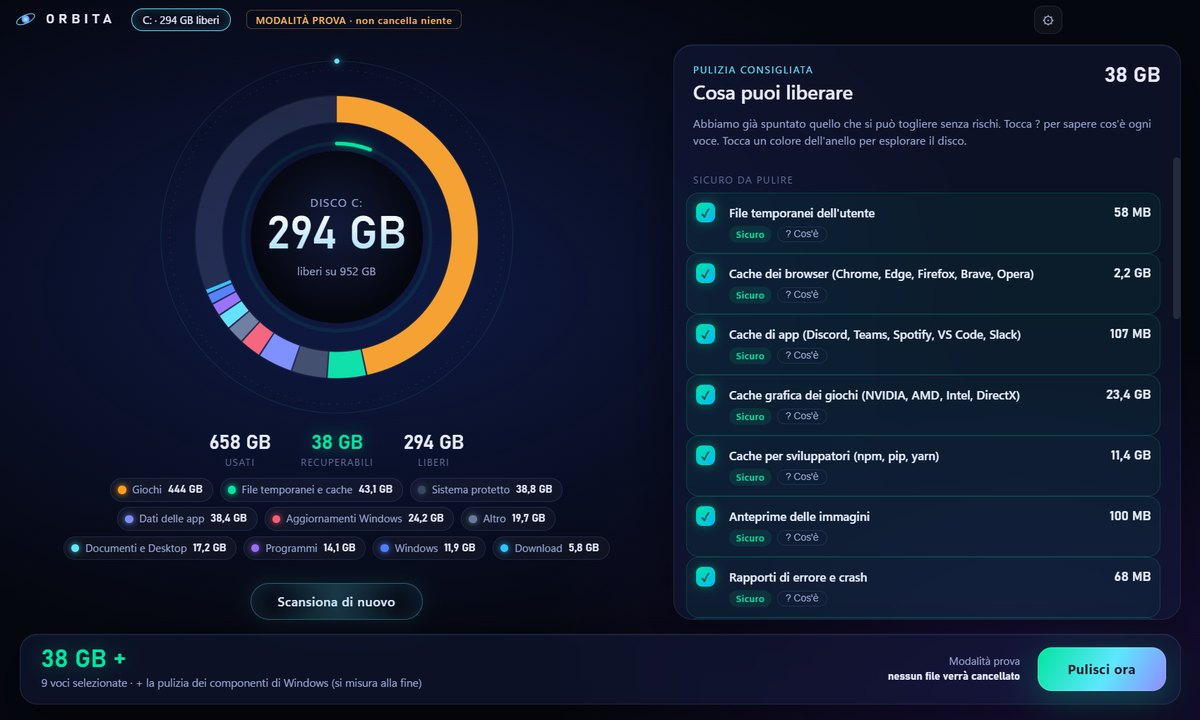
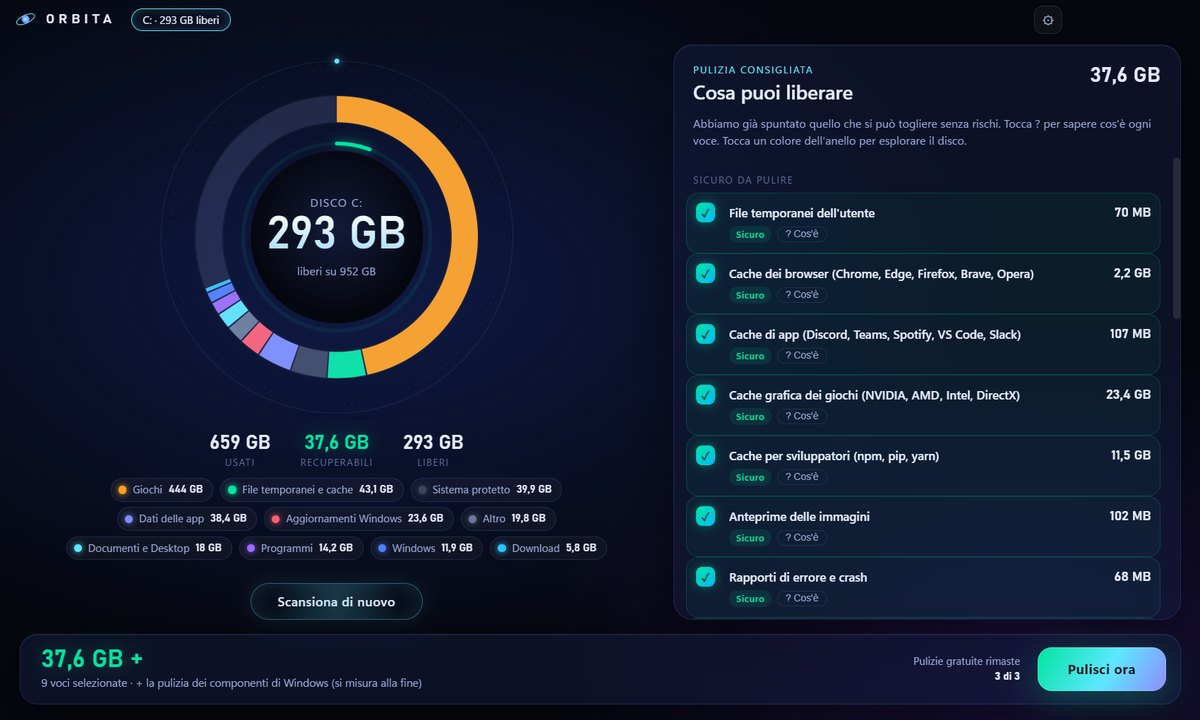
Orbita: pagina dedicata (EN/IT) e collegamento dal portfolio

diff --git a/orbita/index.html b/orbita/index.html
@@ -1,0 +1,200 @@
+<!DOCTYPE html>
+<!-- Orbita · Copyright (c) 2026 Andrea Vacchini. All rights reserved. -->
+<html lang="en">
+<head>
+<meta charset="utf-8">
+<meta name="viewport" content="width=device-width, initial-scale=1">
+<title>Orbita · See what fills your disk. Clean it safely.</title>
+<meta name="description" content="Orbita shows what fills your Windows disk in one colorful ring and cleans only what's safe, explaining every item in plain words. Pay once, yours forever.">
+<meta property="og:title" content="Orbita · See what fills your disk. Clean it safely.">
+<meta property="og:description" content="One ring to see your whole disk. Safe items pre-checked, each explained in plain words. Pay once, yours forever.">
+<meta property="og:image" content="https://skrull2001-boop.github.io/portfolio/orbita/img/og.jpg">
+<meta property="og:url" content="https://skrull2001-boop.github.io/portfolio/orbita/">
+<meta name="twitter:card" content="summary_large_image">
+<link rel="icon" href="img/favicon.png">
+<style>
+:root{--bg:#05070f;--txt:#e6ecff;--t2:#9aa8d6;--t3:#64709a;--ciano:#5ee7ff;--verde:#00e5a0;--bordo:rgba(120,150,255,.16);--vetro:rgba(18,26,56,.55);
+--num:"Bahnschrift","Segoe UI Variable Display","Segoe UI",system-ui,sans-serif;--font:"Segoe UI Variable Text","Segoe UI",system-ui,-apple-system,sans-serif}
+*{box-sizing:border-box}html{scroll-behavior:smooth}
+body{margin:0;background:radial-gradient(1200px 700px at 20% 10%,#0f1a45 0%,transparent 60%),radial-gradient(900px 600px at 90% 60%,#1a0f3d 0%,transparent 60%),var(--bg);color:var(--txt);font:16px/1.6 var(--font)}
+a{color:var(--ciano)}
+.wrap{max-width:1120px;margin:0 auto;padding:0 20px}
+nav{display:flex;align-items:center;gap:14px;padding:18px 0}
+.logo{display:flex;align-items:center;gap:10px;font:600 16px var(--num);letter-spacing:.3em;text-decoration:none;color:var(--txt)}
+.logo img{width:30px;height:30px}
+nav .sp{flex:1}
+nav a.l{color:var(--t2);text-decoration:none;font-size:14px}
+.lang{background:transparent;border:1px solid var(--bordo);color:var(--t2);border-radius:999px;padding:4px 12px;cursor:pointer;font:13px var(--font)}
+.hero{display:grid;grid-template-columns:1fr;gap:28px;padding:40px 0 20px;text-align:center}
+.hero h1{font:600 clamp(34px,6vw,64px)/1.05 var(--font);margin:0;letter-spacing:-.02em}
+.grad{background:linear-gradient(120deg,#00e5a0,#5ee7ff 55%,#8f8bff);-webkit-background-clip:text;color:transparent}
+.hero p.sub{color:var(--t2);font-size:clamp(16px,2.2vw,20px);max-width:720px;margin:0 auto}
+.slogan{font:600 18px var(--font);color:var(--ciano);letter-spacing:.02em}
+.cta{display:flex;gap:12px;justify-content:center;flex-wrap:wrap;margin-top:8px}
+.btn{display:inline-block;border-radius:14px;padding:14px 26px;font:700 15px var(--font);text-decoration:none;cursor:pointer;border:0}
+.btn.p{color:#04121a;background:linear-gradient(120deg,#00e5a0,#5ee7ff 55%,#8f8bff);box-shadow:0 10px 40px #00e5a044}
+.btn.s{color:var(--txt);background:rgba(255,255,255,.06);border:1px solid var(--bordo)}
+.nota{color:var(--t3);font-size:13px}
+.shot{margin:34px auto 0;max-width:1100px;border-radius:18px;overflow:hidden;border:1px solid var(--bordo);box-shadow:0 30px 90px #000a,0 0 0 1px #ffffff0d inset}
+.shot img{display:block;width:100%;height:auto}
+section{padding:64px 0}
+h2{font:600 clamp(26px,3.6vw,38px)/1.15 var(--font);margin:0 0 10px;text-align:center}
+.lead{color:var(--t2);text-align:center;max-width:680px;margin:0 auto 34px}
+.grid{display:grid;grid-template-columns:repeat(auto-fit,minmax(240px,1fr));gap:16px}
+.card{background:var(--vetro);border:1px solid var(--bordo);border-radius:18px;padding:22px}
+.card .ic{font-size:22px}
+.card h3{margin:8px 0 6px;font:600 18px var(--font)}
+.card p{margin:0;color:var(--t2);font-size:15px}
+.big{font:600 clamp(40px,6vw,64px)/1 var(--num);color:var(--verde);text-shadow:0 0 30px #00e5a066}
+.prezzo{max-width:520px;margin:0 auto;text-align:center}
+.prezzo .card{padding:30px}
+.prezzo ul{text-align:left;color:var(--t2);padding-left:20px}
+.badge{display:inline-block;font:700 11px var(--font);letter-spacing:.08em;text-transform:uppercase;color:#1a0b00;background:linear-gradient(120deg,#ffd23f,#ff9f1c);border-radius:999px;padding:3px 10px}
+details{background:var(--vetro);border:1px solid var(--bordo);border-radius:14px;padding:14px 18px;margin:10px 0}
+summary{cursor:pointer;font-weight:600}
+details p{color:var(--t2);margin:10px 0 0}
+footer{border-top:1px solid var(--bordo);padding:28px 0 40px;color:var(--t3);font-size:13px;text-align:center}
+footer a{color:var(--t2)}
+@media (max-width:640px){nav a.l{display:none}section{padding:44px 0}}
+</style>
+</head>
+<body>
+<div class="wrap">
+  <nav>
+    <a class="logo" href="#"><img src="img/icona.png" alt="">ORBITA</a>
+    <span class="sp"></span>
+    <a class="l" href="#come" data-t="nav1">How it works</a>
+    <a class="l" href="#prezzo" data-t="nav2">Price</a>
+    <a class="l" href="#faq">FAQ</a>
+    <button class="lang" id="lang" type="button">IT</button>
+  </nav>
+
+  <header class="hero">
+    <div class="slogan" data-t="slogan">Pay once. Yours forever.</div>
+    <h1 data-t="h1" data-html>See what fills your disk.<br><span class="grad">Clean it safely.</span></h1>
+    <p class="sub" data-t="sub">Orbita shows your whole Windows disk in one colorful ring. Everything that's safe to remove is already checked, and every item is explained in plain words, so you always know what you're deleting.</p>
+    <div class="cta">
+      <a class="btn p" href="#accesso" data-t="cta1">Get early access</a>
+      <a class="btn s" href="#come" data-t="cta2">See how it works</a>
+    </div>
+    <div class="nota" data-t="nota">Coming soon on the Microsoft Store · Windows 10 and 11</div>
+    <div class="shot"><img id="shot" src="img/orbita-en.jpg" width="1400" height="840" alt="Orbita: disk ring by category and recommended cleanup"></div>
+  </header>
+
+  <section id="come">
+    <h2 data-t="s1t">Your disk, finally readable</h2>
+    <p class="lead" data-t="s1l">Windows tells you the disk is full. Orbita tells you why, and what you can safely do about it.</p>
+    <div class="grid">
+      <div class="card"><div class="ic">◉</div><h3 data-t="f1t">One ring, the whole disk</h3><p data-t="f1p">Games, caches, Windows updates, downloads: every color is a category. Tap one to see the biggest folders and files.</p></div>
+      <div class="card"><div class="ic">✓</div><h3 data-t="f2t">Safe items pre-checked</h3><p data-t="f2p">Only things that rebuild themselves: browser and app caches, temp files, old update packages, game shader caches.</p></div>
+      <div class="card"><div class="ic">?</div><h3 data-t="f3t">Every item explained</h3><p data-t="f3p">"What is it?" tells you in plain words what each item is and what happens if you remove it. No jargon.</p></div>
+      <div class="card"><div class="ic">⟳</div><h3 data-t="f4t">Weekly automatic cleanup</h3><p data-t="f4p">With Orbita Pro it cleans the safe stuff on its own once a week and sends you a notification.</p></div>
+    </div>
+  </section>
+
+  <section>
+    <h2 data-t="s2t">Real numbers, real PC</h2>
+    <p class="lead" data-t="s2l">On the developer's gaming PC, the first scan found:</p>
+    <div class="grid" style="text-align:center">
+      <div class="card"><div class="big">38 GB</div><p data-t="n1">ready to free, all safe</p></div>
+      <div class="card"><div class="big">23 GB</div><p data-t="n2">of NVIDIA graphics cache, from games played months ago</p></div>
+      <div class="card"><div class="big">~30 s</div><p data-t="n3">to read 800,000 files</p></div>
+    </div>
+  </section>
+
+  <section>
+    <h2 data-t="s3t">Built to never break anything</h2>
+    <div class="grid">
+      <div class="card"><h3 data-t="g1t">Only known folders</h3><p data-t="g1p">Orbita deletes only inside a list of known cache and temp folders. Never your documents, never system files.</p></div>
+      <div class="card"><h3 data-t="g2t">Your files go to the Recycle Bin</h3><p data-t="g2p">Big files you pick yourself go to the Recycle Bin, so you can always restore them.</p></div>
+      <div class="card"><h3 data-t="g3t">Microsoft's own tools</h3><p data-t="g3p">Windows component cleanup runs through Microsoft's official tool (DISM), never by hand.</p></div>
+      <div class="card"><h3 data-t="g4t">Nothing leaves your PC</h3><p data-t="g4p">No accounts, no tracking, no file lists sent anywhere. The scan stays on your computer.</p></div>
+    </div>
+  </section>
+
+  <section id="prezzo" class="prezzo">
+    <h2 data-t="s4t">Pay once. Yours forever.</h2>
+    <p class="lead" data-t="s4l">No subscription. The scan and the map are free forever.</p>
+    <div class="card">
+      <span class="badge" data-t="lancio">Launch week: half price</span>
+      <div class="big" style="margin:16px 0 4px" data-t="prezzo">9.99 €</div>
+      <div class="nota" data-t="prezzoN">one-time · local prices in every country</div>
+      <ul>
+        <li data-t="p1">Free: scan, disk map and 3 cleanups</li>
+        <li data-t="p2">Orbita Pro: unlimited cleanups</li>
+        <li data-t="p3">Weekly automatic cleanup</li>
+        <li data-t="p4">6 languages: English, Italiano, Español, Português, Deutsch, Français</li>
+      </ul>
+    </div>
+  </section>
+
+  <section id="accesso" class="prezzo">
+    <h2 data-t="s5t">Get early access</h2>
+    <p class="lead" data-t="s5l">Orbita is in its final tests. Write to us and you'll get the download before the public launch, at the launch price.</p>
+    <a class="btn p" id="mail" href="mailto:studiovacchini@gmail.com?subject=Orbita%20early%20access" data-t="s5b">Ask for early access</a>
+  </section>
+
+  <section id="faq">
+    <h2>FAQ</h2>
+    <details><summary data-t="q1">Is it safe?</summary><p data-t="a1">Orbita only empties folders that programs rebuild by themselves (caches and temporary files). Files you choose by hand go to the Recycle Bin. Before any cleanup you see exactly what will be removed. As with any tool that deletes files, keep a backup of your important data.</p></details>
+    <details><summary data-t="q2">Why will my games start a bit slower once?</summary><p data-t="a2">Cleaning the graphics (shader) cache means each game rebuilds it the first time you launch it. After that, everything is as before.</p></details>
+    <details><summary data-t="q3">Does it work on Windows 10?</summary><p data-t="a3">Yes, Windows 10 and Windows 11, 64-bit.</p></details>
+    <details><summary data-t="q4">Do you collect my data?</summary><p data-t="a4">No. Orbita works offline on your PC. The optional "What is it?" AI feature only works with your own API key and sends only folder names and sizes, never file contents.</p></details>
+  </section>
+</div>
+
+<footer>
+  <div class="wrap">
+    <div data-t="foot">© 2026 Andrea Vacchini. All rights reserved. Orbita is not affiliated with Microsoft, NVIDIA, AMD, Intel or Valve.</div>
+    <div style="margin-top:8px"><a id="eula" href="legal/EULA_en.txt" data-t="eula">License agreement and privacy</a> · <a href="../" data-t="autore">Made by Andrea Vacchini</a></div>
+  </div>
+</footer>
+
+<script>
+(function(){
+  var IT={nav1:"Come funziona",nav2:"Prezzo",slogan:"Paga una volta. Tua per sempre.",
+  h1:'Guarda cosa riempie il disco.<br><span class="grad">Puliscilo in sicurezza.</span>',
+  sub:"Orbita mostra tutto il disco di Windows in un solo anello colorato. Quello che si può togliere senza rischi è già spuntato, e ogni voce è spiegata in parole semplici: sai sempre cosa stai cancellando.",
+  cta1:"Accesso anticipato",cta2:"Guarda come funziona",nota:"In arrivo sul Microsoft Store · Windows 10 e 11",
+  s1t:"Il tuo disco, finalmente leggibile",s1l:"Windows ti dice che il disco è pieno. Orbita ti dice perché, e cosa puoi fare in sicurezza.",
+  f1t:"Un anello, tutto il disco",f1p:"Giochi, cache, aggiornamenti di Windows, download: ogni colore è una categoria. Toccane uno e vedi le cartelle e i file più pesanti.",
+  f2t:"Le voci sicure già spuntate",f2p:"Solo cose che si ricreano da sole: cache di browser e app, file temporanei, vecchi aggiornamenti, cache grafica dei giochi.",
+  f3t:"Ogni voce spiegata",f3p:"\"Cos'è?\" ti dice in parole semplici cos'è ogni voce e cosa succede se la togli. Niente gergo.",
+  f4t:"Pulizia automatica settimanale",f4p:"Con Orbita Pro pulisce da sola le voci sicure una volta a settimana e ti avvisa con una notifica.",
+  s2t:"Numeri veri, PC vero",s2l:"Sul PC da gioco dello sviluppatore, la prima scansione ha trovato:",
+  n1:"da liberare, tutti sicuri",n2:"di cache grafica NVIDIA, di giochi giocati mesi fa",n3:"per leggere 800.000 file",
+  s3t:"Fatta per non rompere niente",g1t:"Solo cartelle note",g1p:"Orbita cancella solo dentro un elenco di cartelle di cache e temporanei conosciute. Mai i tuoi documenti, mai i file di sistema.",
+  g2t:"I tuoi file vanno nel Cestino",g2p:"I file grandi che scegli tu finiscono nel Cestino: puoi sempre recuperarli.",
+  g3t:"Gli strumenti di Microsoft",g3p:"La pulizia dei componenti di Windows passa dallo strumento ufficiale di Microsoft (DISM), mai a mano.",
+  g4t:"Niente esce dal tuo PC",g4p:"Nessun account, nessun tracciamento, nessun elenco di file inviato da nessuna parte. La scansione resta sul tuo computer.",
+  s4t:"Paga una volta. Tua per sempre.",s4l:"Nessun abbonamento. La scansione e la mappa sono gratis per sempre.",
+  lancio:"Settimana di lancio: metà prezzo",prezzo:"9,99 €",prezzoN:"una volta sola · prezzi locali in ogni paese",
+  p1:"Gratis: scansione, mappa del disco e 3 pulizie",p2:"Orbita Pro: pulizie illimitate",p3:"Pulizia automatica settimanale",p4:"6 lingue: English, Italiano, Español, Português, Deutsch, Français",
+  s5t:"Accesso anticipato",s5l:"Orbita è negli ultimi test. Scrivici e avrai il download prima del lancio pubblico, al prezzo di lancio.",s5b:"Chiedi l'accesso anticipato",
+  q1:"È sicura?",a1:"Orbita svuota solo cartelle che i programmi ricreano da soli (cache e file temporanei). I file che scegli a mano vanno nel Cestino. Prima di ogni pulizia vedi esattamente cosa verrà tolto. Come con ogni strumento che cancella file, tieni una copia di sicurezza dei dati importanti.",
+  q2:"Perché i giochi partiranno un po' più lenti una volta?",a2:"Pulendo la cache grafica (shader), ogni gioco la ricrea al primo avvio. Dopo, tutto torna come prima.",
+  q3:"Funziona su Windows 10?",a3:"Sì, Windows 10 e Windows 11 a 64 bit.",
+  q4:"Raccogliete i miei dati?",a4:"No. Orbita funziona offline sul tuo PC. La funzione facoltativa \"Cos'è?\" con l'IA funziona solo con una tua chiave API e invia solo nomi e dimensioni delle cartelle, mai il contenuto dei file.",
+  foot:"© 2026 Andrea Vacchini. Tutti i diritti riservati. Orbita non è affiliata a Microsoft, NVIDIA, AMD, Intel o Valve.",
+  eula:"Contratto di licenza e privacy",autore:"Creata da Andrea Vacchini"};
+  var els=document.querySelectorAll("[data-t]"),EN={};
+  els.forEach(function(e){EN[e.dataset.t]=e.hasAttribute("data-html")?e.innerHTML:e.textContent;});
+  var btn=document.getElementById("lang");
+  function set(l){
+    var d=l==="it"?IT:EN;
+    els.forEach(function(e){var v=d[e.dataset.t];if(v==null)return;if(e.hasAttribute("data-html"))e.innerHTML=v;else e.textContent=v;});
+    document.documentElement.lang=l;
+    document.getElementById("shot").src="img/orbita-"+l+".jpg";
+    document.getElementById("eula").href="legal/EULA_"+l+".txt";
+    document.getElementById("mail").href="mailto:studiovacchini@gmail.com?subject="+encodeURIComponent(l==="it"?"Orbita accesso anticipato":"Orbita early access");
+    btn.textContent=l==="it"?"EN":"IT";
+    try{localStorage.setItem("orbita-lang",l);}catch(e){}
+  }
+  var salvata=null;try{salvata=localStorage.getItem("orbita-lang");}catch(e){}
+  var l=salvata||((navigator.language||"en").slice(0,2)==="it"?"it":"en");
+  if(l==="it")set("it");
+  btn.onclick=function(){set(document.documentElement.lang==="it"?"en":"it");};
+})();
+</script>
+</body>
+</html>

diff --git a/index.html b/index.html
@@ -204,7 +204,7 @@
                         <p class="prob" data-i18n="po.prob">Pulire il disco fa paura: non sai cosa stai cancellando, e i programmi seri si pagano in abbonamento.</p>
                         <p data-i18n="po.what">Un anello mostra cosa occupa il disco; le voci sicure sono già spuntate, ognuna spiegata in parole semplici. Sul mio PC ha trovato 38 GB da liberare, 23 di cache grafica NVIDIA. Sei lingue, prezzi per paese, pulizia automatica settimanale. Paghi una volta, è tua per sempre.</p>
                         <div class="stat"><b>~30 s</b><span data-i18n="po.stat">per leggere 800.000 file</span></div>
-                        <div class="act"><span class="st st-proto" data-i18n="st.proto">Prototipo</span></div>
+                        <div class="act"><span class="st st-proto" data-i18n="st.proto">Prototipo</span><a class="more" href="orbita/" data-i18n="po.link">Sito di Orbita →</a></div>
                     </div>
                 </div>
                 <div class="wrap"><a class="next mono" href="#cervello" data-i18n="next3b">Prossimo: Uno staff di 12 agenti IA →</a></div>

diff --git a/script.js b/script.js
@@ -90,6 +90,7 @@
         'po.prob': "Cleaning your disk is scary: you don't know what you're deleting, and the serious tools are subscriptions.",
         'po.what': "A ring shows what fills the disk; safe items are already checked, each one explained in plain words. On my PC it found 38 GB to free, 23 of them NVIDIA graphics cache. Six languages, regional pricing, weekly automatic cleanup. Pay once, yours forever.",
         'po.stat': 'to read 800,000 files',
+        'po.link': 'Orbita website →',
 
         'r0': 'Ops',
         'r0.d': 'routes requests and keeps the dashboard and weekly reports.',
